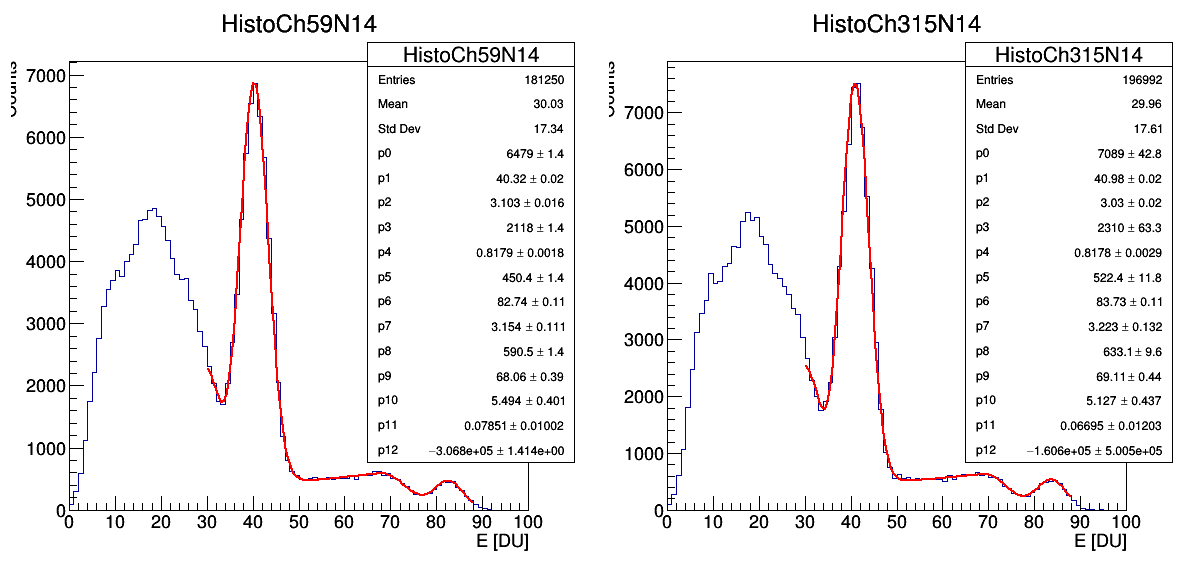
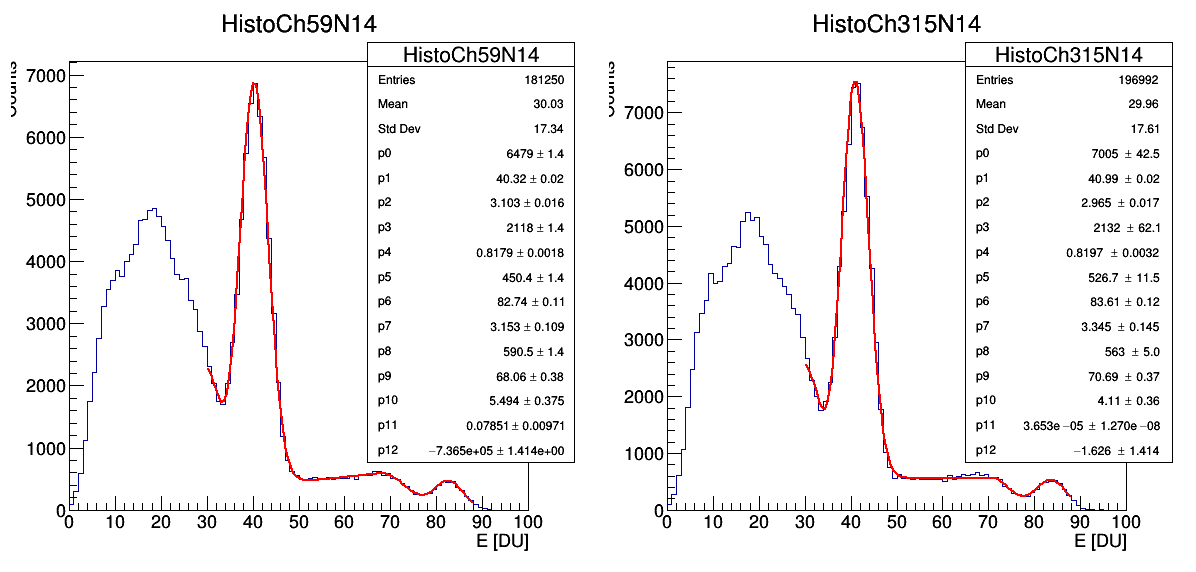
Ratio same peak different channel vs temp

diff --git a/AnalysisTempCBTry.cpp b/AnalysisTempCBTry.cpp
@@ -12,6 +12,8 @@
 #include "TStyle.h"
 #include "TGraphErrors.h"
 #include "TSystem.h"
+#include "TPad.h"
+#include "TMath.h"
 
 #include "ReadFileList.cc"
 #include "FunctionsTempCB.cc"
@@ -35,9 +37,10 @@ void Analysis(){
   vector<string> FileListPhysics;
   FileListPhysics=ReadData("TestStability3/PhysFile.txt");
 
+  int NFilePhys=(int)FileListPhysics.size();
   
   //Get Pedestal
-  Double_t Pedestal[(int)FileListPhysics.size()][2];
+  Double_t Pedestal[NFilePhys][2];
   Double_t PedestalCh1[2];
   Double_t PedestalCh2[2];
 
@@ -61,36 +64,36 @@ void Analysis(){
   }// chiudo for
 
   
-  for(int i=0;i<(int)FileListPhysics.size();i++){
-    std::cout <<(int)FileListPhysics.size() <<"   "<< (int)FileListPedestal.size()<< Pedestal[i][0] << "    " << Pedestal[i][1] << std::endl;
+  for(int i=0;i<NFilePhys;i++){
+    std::cout <<NFilePhys <<"   "<< (int)FileListPedestal.size()<< Pedestal[i][0] << "    " << Pedestal[i][1] << std::endl;
   }
 
   
 
-  TH1D* HistoCh59[(int)FileListPhysics.size()];
-  TH1D* HistoCh315[(int)FileListPhysics.size()];
+  TH1D* HistoCh59[NFilePhys];
+  TH1D* HistoCh315[NFilePhys];
     
-  Double_t MeanTCh59[(int)FileListPhysics.size()], MeanTCh315[(int)FileListPhysics.size()];
-  Double_t SigmaTCh59[(int)FileListPhysics.size()], SigmaTCh315[(int)FileListPhysics.size()];
-  Double_t MeanTGlobal[(int)FileListPhysics.size()], SigmaTGlobal[(int)FileListPhysics.size()];
+  Double_t MeanTCh59[NFilePhys], MeanTCh315[NFilePhys];
+  Double_t SigmaTCh59[NFilePhys], SigmaTCh315[NFilePhys];
+  Double_t MeanTGlobal[NFilePhys], SigmaTGlobal[NFilePhys];
 
-  Double_t Peak1Ch59[(int)FileListPhysics.size()], Peak2Ch59[(int)FileListPhysics.size()];
-  Double_t SigmaPeak1Ch59[(int)FileListPhysics.size()], SigmaPeak2Ch59[(int)FileListPhysics.size()];
+  Double_t Peak1Ch59[NFilePhys], Peak2Ch59[NFilePhys];
+  Double_t SigmaPeak1Ch59[NFilePhys], SigmaPeak2Ch59[NFilePhys];
 
-  Double_t Peak1Ch315[(int)FileListPhysics.size()], Peak2Ch315[(int)FileListPhysics.size()];
-  Double_t SigmaPeak1Ch315[(int)FileListPhysics.size()], SigmaPeak2Ch315[(int)FileListPhysics.size()];
+  Double_t Peak1Ch315[NFilePhys], Peak2Ch315[NFilePhys];
+  Double_t SigmaPeak1Ch315[NFilePhys], SigmaPeak2Ch315[NFilePhys];
   
 
   TFile* f0;
   TTree* tree0;
 
-  TF1* FitSpectrum[(int)FileListPhysics.size()][2];
+  TF1* FitSpectrum[NFilePhys][2];
   
   gStyle->SetOptFit(0111);
   gStyle->SetStatW(0.2);
   gStyle->SetStatH(0.15);
 
-  for(int i=0;i < (int)FileListPhysics.size();i++){
+  for(int i=0;i < NFilePhys;i++){
     
     f0= TFile::Open(("TestStability3/"+FileListPhysics.at(i)).c_str());
     tree0 = (TTree*)f0->Get("data");
@@ -124,8 +127,8 @@ void Analysis(){
     delete canvino;
   }
 
-  for(int i=0;i<(int)FileListPhysics.size();i++){
-    std::cout << MeanTCh59[i] << " " <<SigmaTCh59[i]<< " " << MeanTCh315[i] << " " << SigmaTCh315[i] << std::endl;
+  for(int i=0;i<NFilePhys;i++){
+    std::cout << MeanTCh59[i] << " " <<SigmaTCh59[i]<< " " << MeanTCh315[i] << " " << SigmaTCh315[i] <<" " << MeanTGlobal[i]<< " " << SigmaTGlobal[i] <<std::endl;
 
     Peak1Ch59[i]=FitSpectrum[i][0]->GetParameter(1);
     SigmaPeak1Ch59[i]=FitSpectrum[i][0]->GetParError(1);
@@ -143,13 +146,12 @@ void Analysis(){
   
   TCanvas* PlotEVsT = new TCanvas("PlotEVsT","PlotEVsT",1200,600);
 
-  TGraphErrors* Graph1Ch59 = new TGraphErrors((int)FileListPhysics.size(),MeanTCh59,Peak1Ch59,SigmaTCh59,SigmaPeak1Ch59);
-  TGraphErrors* Graph2Ch59 = new TGraphErrors((int)FileListPhysics.size(),MeanTCh59,Peak2Ch59,SigmaTCh59,SigmaPeak2Ch59);
+  TGraphErrors* Graph1Ch59 = new TGraphErrors(NFilePhys,MeanTCh59,Peak1Ch59,SigmaTCh59,SigmaPeak1Ch59);
+  TGraphErrors* Graph2Ch59 = new TGraphErrors(NFilePhys,MeanTCh59,Peak2Ch59,SigmaTCh59,SigmaPeak2Ch59);
   
-  TGraphErrors* Graph1Ch315 = new TGraphErrors((int)FileListPhysics.size(),MeanTCh315,Peak1Ch315,SigmaTCh315,SigmaPeak1Ch315);
-  TGraphErrors* Graph2Ch315 = new TGraphErrors((int)FileListPhysics.size(),MeanTCh315,Peak2Ch315,SigmaTCh315,SigmaPeak2Ch315);
-  
-  
+  TGraphErrors* Graph1Ch315 = new TGraphErrors(NFilePhys,MeanTCh315,Peak1Ch315,SigmaTCh315,SigmaPeak1Ch315);
+  TGraphErrors* Graph2Ch315 = new TGraphErrors(NFilePhys,MeanTCh315,Peak2Ch315,SigmaTCh315,SigmaPeak2Ch315);
+
   
   PlotEVsT->Divide(2,1);
   PlotEVsT->cd(1)->SetGridx();
@@ -178,4 +180,142 @@ void Analysis(){
   
 
   PlotEVsT->SaveAs("Plot/EnergyTempCB/PlotEVsT.png");
+
+  //gROOT->SetBatch(kFALSE);
+  TCanvas* CanvGlobalTemp = new TCanvas("CanvasGlobalTemp", "CanvasGlobalTemp",1200,600);
+  
+  
+  TGraphErrors* Graph1GlobalTempCh59= new TGraphErrors(NFilePhys,MeanTGlobal,Peak1Ch59,SigmaTGlobal,SigmaPeak1Ch59);
+  TGraphErrors* Graph2GlobalTempCh59= new TGraphErrors(NFilePhys,MeanTGlobal,Peak2Ch59,SigmaTGlobal,SigmaPeak2Ch59);
+  TGraphErrors* Graph1GlobalTempCh315= new TGraphErrors(NFilePhys,MeanTGlobal,Peak1Ch315,SigmaTGlobal,SigmaPeak1Ch315);
+  TGraphErrors* Graph2GlobalTempCh315= new TGraphErrors(NFilePhys,MeanTGlobal,Peak2Ch315,SigmaTGlobal,SigmaPeak2Ch315);
+  ////////////////////////////////////////////////////////////////////////////////////
+  Double_t RatioPeakCh59[NFilePhys], RatioPeakCh315[NFilePhys],SigmaRPeakCh59[NFilePhys],SigmaRPeakCh315[NFilePhys];
+  
+  EnergyRatioWithErr(Peak1Ch59,Peak2Ch59,SigmaPeak1Ch59,SigmaPeak2Ch59,RatioPeakCh59,SigmaRPeakCh59,NFilePhys);
+  EnergyRatioWithErr(Peak1Ch315,Peak2Ch315,SigmaPeak1Ch315,SigmaPeak2Ch315,RatioPeakCh315,SigmaRPeakCh315,NFilePhys);
+  
+  TGraphErrors* GraphRatioCh59 = new TGraphErrors(NFilePhys,MeanTGlobal,RatioPeakCh59,SigmaTGlobal,SigmaRPeakCh59);
+  TGraphErrors* GraphRatioCh315 = new TGraphErrors(NFilePhys,MeanTGlobal,RatioPeakCh315,SigmaTGlobal,SigmaRPeakCh315);
+
+  /////////////////////////////////////////////////////////////////////////////////////
+  //RatioEnergyCh1 (TGlobal)
+  CanvGlobalTemp->Divide(2,1);
+  CanvGlobalTemp->cd(1);
+ 
+  TPad *p2Ch59 = new TPad("p2","p3",0.,0.,1.,0.3); p2Ch59->Draw();
+  TPad *p1Ch59 = new TPad("p1","p1",0.,0.3,1.,1.); p1Ch59->Draw();
+  p1Ch59->SetBottomMargin(0.001);
+  p2Ch59->SetTopMargin(0.001);
+  p2Ch59->SetBottomMargin(0.3);
+
+  p1Ch59->cd()->SetGridx();
+  p1Ch59->cd()->SetGridy();
+  
+  Graph1GlobalTempCh59->SetMaximum(90);
+  Graph1GlobalTempCh59->SetMinimum(35);
+  Graph1GlobalTempCh59->SetTitle("EnergyVsBoxTempCh59");
+  Graph1GlobalTempCh59->GetYaxis()->SetTitle("E [DU]");
+  Graph1GlobalTempCh59->Draw("AP");
+  Graph2GlobalTempCh59->Draw("SAMEP");
+
+  p2Ch59->cd()->SetGridx();
+  p2Ch59->cd()->SetGridy();
+  SetStyleRatioPlot(GraphRatioCh59,0.35,0.65);
+  GraphRatioCh59->Draw("AP");
+  //////////////////////////////////////////////////////////////////////////////////////
+  //RatioEnergyCh1 (TGlobal)
+  CanvGlobalTemp->cd(2);
+  
+ 
+  TPad *p2Ch315 = new TPad("p2","p3",0.,0.,1.,0.3); p2Ch315->Draw();
+  TPad *p1Ch315 = new TPad("p1","p1",0.,0.3,1.,1.); p1Ch315->Draw();
+  p1Ch315->SetBottomMargin(0.001);
+  p2Ch315->SetTopMargin(0.001);
+  p2Ch315->SetBottomMargin(0.3);
+
+  p1Ch315->cd()->SetGridx();
+  p1Ch315->cd()->SetGridy();
+  
+  Graph1GlobalTempCh315->SetMaximum(90);
+  Graph1GlobalTempCh315->SetMinimum(35);
+  Graph1GlobalTempCh315->SetTitle("EnergyVsBoxTempCh315");
+  Graph1GlobalTempCh315->GetYaxis()->SetTitle("E [DU]");
+  Graph1GlobalTempCh315->Draw("AP");
+  Graph2GlobalTempCh315->Draw("SAMEP");
+
+  p2Ch315->cd()->SetGridx();
+  p2Ch315->cd()->SetGridy();
+  SetStyleRatioPlot(GraphRatioCh315,0.35,0.65);
+  GraphRatioCh315->Draw("AP");
+  ////////////////////////////////////////////////////////////////////////////////
+  CanvGlobalTemp->SaveAs("Plot/EnergyTempCB/PlotEVsTglobal.png");
+  ////////////////////////////////////////////////////////////////////////////////
+  //RatioPeak1(511)PeackCh59/315 (TGlobal)
+
+  Double_t ratioPeak1[NFilePhys], sigmaRatioPeak1[NFilePhys], ratioPeak2[NFilePhys], sigmaRatioPeak2[NFilePhys];
+  
+  EnergyRatioWithErr(Peak1Ch59,Peak1Ch315,SigmaPeak1Ch59,SigmaPeak1Ch315,ratioPeak1,sigmaRatioPeak1,NFilePhys);
+  EnergyRatioWithErr(Peak2Ch59,Peak2Ch315,SigmaPeak2Ch59,SigmaPeak2Ch315,ratioPeak2,sigmaRatioPeak2,NFilePhys);
+
+  TGraphErrors* GraphRatioPeak1 = new TGraphErrors(NFilePhys,MeanTGlobal,ratioPeak1,SigmaTGlobal,sigmaRatioPeak1);
+  TGraphErrors* GraphRatioPeak2 = new TGraphErrors(NFilePhys,MeanTGlobal,ratioPeak2,SigmaTGlobal,sigmaRatioPeak2);
+  
+    
+  TCanvas* CanvasComparisonPeak= new TCanvas("CanvasComparisonPeak","CanvasComparisonPeak",1200,600);
+  CanvasComparisonPeak->Divide(2,1);
+  CanvasComparisonPeak->cd(1);
+
+  TPad *pad2Peak1 = new TPad("p2","p3",0.,0.,1.,0.3); pad2Peak1->Draw();
+  TPad *pad1Peak1 = new TPad("p1","p1",0.,0.3,1.,1.); pad1Peak1->Draw();
+  pad1Peak1->SetBottomMargin(0.001);
+  pad2Peak1->SetTopMargin(0.001);
+  pad2Peak1->SetBottomMargin(0.3);
+
+  pad1Peak1->cd()->SetGridx();
+  pad1Peak1->cd()->SetGridy();
+  
+  Graph1GlobalTempCh59->SetMaximum(45);
+  Graph1GlobalTempCh59->SetMinimum(35);
+  Graph1GlobalTempCh315->SetMarkerStyle(4);
+  Graph1GlobalTempCh59->SetMarkerStyle(8);
+  //Graph1GlobalTempCh315->SetMarkerSize(.7);
+  //Graph1GlobalTempCh59->SetMarkerSize(.7);
+  Graph1GlobalTempCh59->SetTitle("EnergyVsBoxTempPeak511Kev");
+  Graph1GlobalTempCh59->GetYaxis()->SetTitle("E [DU]");
+  Graph1GlobalTempCh59->Draw("AP");
+  Graph1GlobalTempCh315->Draw("SAMEP");
+
+  pad2Peak1->cd()->SetGridx();
+  pad2Peak1->cd()->SetGridy();
+  SetStyleRatioPlot(GraphRatioPeak1,0.9,1.1);
+  GraphRatioPeak1->Draw("AP");
+  //////////////////////////////////////////////////////////////
+  CanvasComparisonPeak->cd(2);
+  TPad *pad2Peak2 = new TPad("p2","p3",0.,0.,1.,0.3); pad2Peak2->Draw();
+  TPad *pad1Peak2 = new TPad("p1","p1",0.,0.3,1.,1.); pad1Peak2->Draw();
+  pad1Peak2->SetBottomMargin(0.001);
+  pad2Peak2->SetTopMargin(0.001);
+  pad2Peak2->SetBottomMargin(0.3);
+
+  pad1Peak2->cd()->SetGridx();
+  pad1Peak2->cd()->SetGridy();
+  
+  Graph2GlobalTempCh315->SetMaximum(90);
+  Graph2GlobalTempCh315->SetMinimum(75);
+  Graph2GlobalTempCh315->SetMarkerStyle(4);
+  Graph2GlobalTempCh59->SetMarkerStyle(8);
+  //Graph2GlobalTempCh315->SetMarkerSize(.7);
+  //Graph2GlobalTempCh59->SetMarkerSize(.7);
+  Graph2GlobalTempCh315->SetTitle("EnergyVsBoxTempPeak1275KeV");
+  Graph2GlobalTempCh315->GetYaxis()->SetTitle("E [DU]");
+  Graph2GlobalTempCh315->Draw("AP");
+  Graph2GlobalTempCh59->Draw("SAMEP");
+
+  pad2Peak2->cd()->SetGridx();
+  pad2Peak2->cd()->SetGridy();
+  SetStyleRatioPlot(GraphRatioPeak2,0.9,1.1);
+  GraphRatioPeak2->Draw("AP");
+
+  CanvasComparisonPeak->SaveAs("Plot/EnergyTempCB/PeakComparisonVsTemp.png");
 }

diff --git a/FunctionsTempCB.cc b/FunctionsTempCB.cc
@@ -51,7 +51,7 @@ void GetMeanTemperature(TTree* tree, Double_t* MeanTempCh59, Double_t* SigmaTemp
   UShort_t chID;
   Double_t temp1,temp2,temp3;
 
-  TH1D* histo1 = new TH1D("pippoch1","pippoch1",20,20,40);
+  TH1D* histo1 = new TH1D("pippoch1","pippoch1",20,10,35);
   TH1D* histoCh59 = new TH1D("pippoch59","pippoch59",20,20,40);
   TH1D* histoCh315 = new TH1D("pippoch315","pippoch315",20,20,40);
 
@@ -128,7 +128,35 @@ TF1* FitNaSpectrumCB(TH1D* Profile){
   spectrum->SetParameter(11,0.04);
   spectrum->SetParameter(12,-1.4);
 
+  spectrum->SetParLimits(10,4,6);
+  
   Profile->Fit("SpectrumFit","R0");
 
   return spectrum;
 }
+
+
+void EnergyRatioWithErr(Double_t* A,Double_t* B,Double_t* sA,Double_t* sB,Double_t* ratio, Double_t* sigmaRatio,int Ndata){
+
+  for(int i=0;i<Ndata;i++){
+    ratio[i]=A[i]/B[i];
+    sigmaRatio[i]=TMath::Sqrt((sA[i]*sA[i])/(B[i]*B[i])+(A[i]*A[i])/(B[i]*B[i]*B[i]*B[i])*(sB[i]*sB[i]));
+  }
+  
+}
+
+void SetStyleRatioPlot(TGraphErrors* ratioPlot,Double_t minRange,Double_t maxRange){
+
+  ratioPlot->SetTitle("");
+  ratioPlot->GetXaxis()->SetTitle("TMeanBoxRun [°C]");
+  ratioPlot->GetYaxis()->SetTitle("PeakRatio");
+  ratioPlot->GetXaxis()->SetTitleSize(0.08);
+  ratioPlot->GetYaxis()->SetTitleSize(0.08);
+  ratioPlot->GetYaxis()->SetTitleOffset(0.5);
+  ratioPlot->GetXaxis()->SetLabelSize(0.075);
+  ratioPlot->GetYaxis()->SetLabelSize(0.075);
+  ratioPlot->GetYaxis()->SetLimits(minRange,maxRange);
+  ratioPlot->GetYaxis()->SetRangeUser(minRange,maxRange);
+  
+}
+
